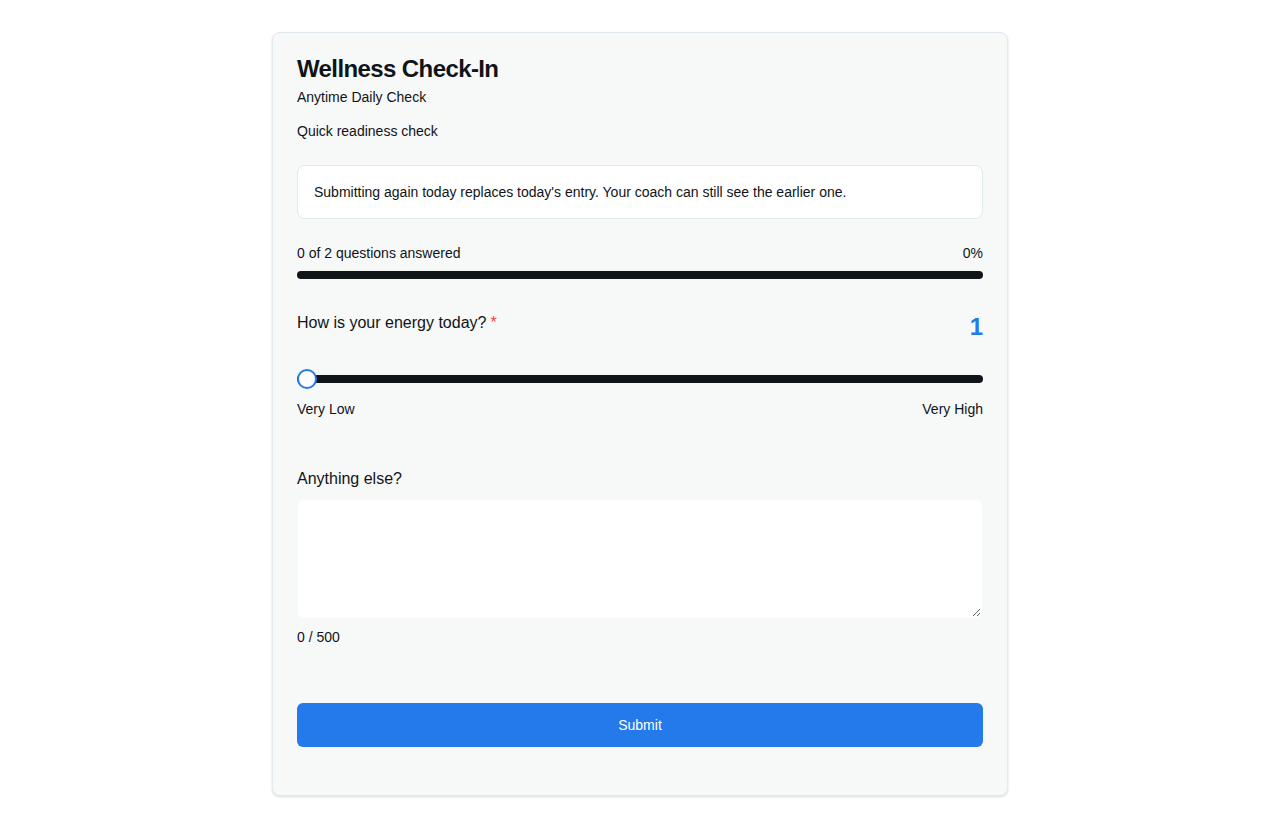
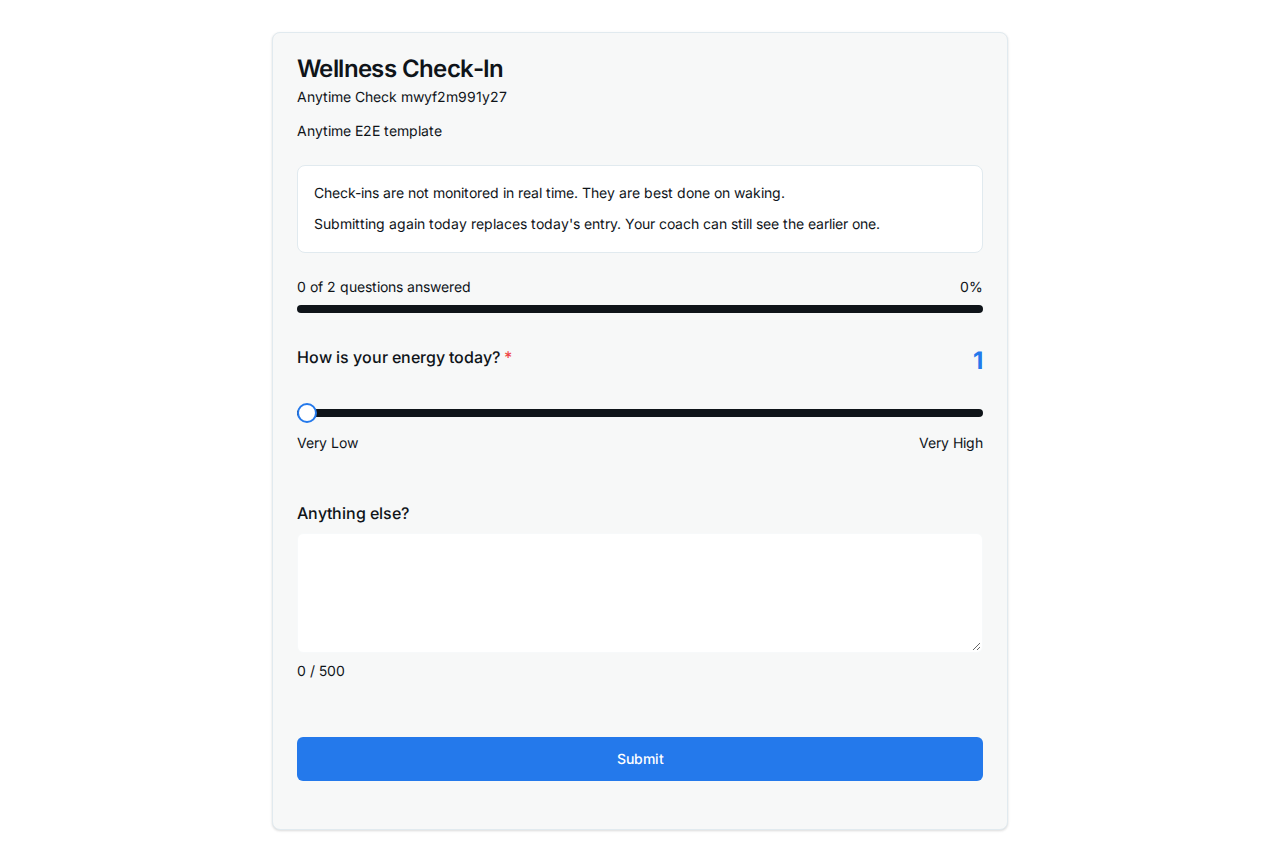
feat(wellness): safety note on the Anytime check-in submit page

diff --git a/tests/e2e/wellness-anytime-request.spec.ts b/tests/e2e/wellness-anytime-request.spec.ts
@@ -63,7 +63,7 @@ async function openRequestsTab(page: Page): Promise<void> {
 
 /** Answer the template's required scale question and submit; expects the standing success card */
 async function submitCheckIn(page: Page): Promise<boolean> {
-  await expect(page.getByTestId('standing-replace-note')).toBeVisible();
+  await expect(page.getByTestId('standing-replace-note')).toContainText('not monitored in real time');
   // Standing requests use the signed-in athlete: no name picker
   await expect(page.getByTestId('athlete-selector')).toHaveCount(0);
   const slider = page.getByRole('slider').first();
@@ -265,7 +265,7 @@ test.describe.serial('Wellness Anytime requests', () => {
     await page.click('button[type="submit"]');
 
     await page.waitForURL(url => url.pathname === `/wellness/submit/${publicToken}`);
-    await expect(page.getByTestId('standing-replace-note')).toBeVisible();
+    await expect(page.getByTestId('standing-replace-note')).toContainText('not monitored in real time');
     await page.context().close();
   });
 });

diff --git a/packages/web/src/pages/wellness-submit.tsx b/packages/web/src/pages/wellness-submit.tsx
@@ -541,7 +541,10 @@ export default function WellnessSubmit() {
 
           {isStanding && (
             <Alert className="mb-6" data-testid="standing-replace-note">
-              <AlertDescription>Submitting again today replaces today's entry. Your coach can still see the earlier one.</AlertDescription>
+              <AlertDescription>
+                <p>Check-ins are not monitored in real time. They are best done on waking.</p>
+                <p className="mt-2">Submitting again today replaces today's entry. Your coach can still see the earlier one.</p>
+              </AlertDescription>
             </Alert>
           )}
 

diff --git a/packages/web/src/pages/__tests__/wellness-submit-standing.test.tsx b/packages/web/src/pages/__tests__/wellness-submit-standing.test.tsx
@@ -101,6 +101,7 @@ describe('WellnessSubmit - standing requests', () => {
     expect(await screen.findByText("Submitting again today replaces today's entry. Your coach can still see the earlier one.")).toBeInTheDocument();
     expect(screen.getByRole('button', { name: 'Submit' })).toBeEnabled();
     expect(screen.queryByTestId('athlete-selector')).not.toBeInTheDocument();
+    expect(screen.getByText('Check-ins are not monitored in real time. They are best done on waking.')).toBeInTheDocument();
   });
 
   it('is not locked even if a prior submission is reported', async () => {
